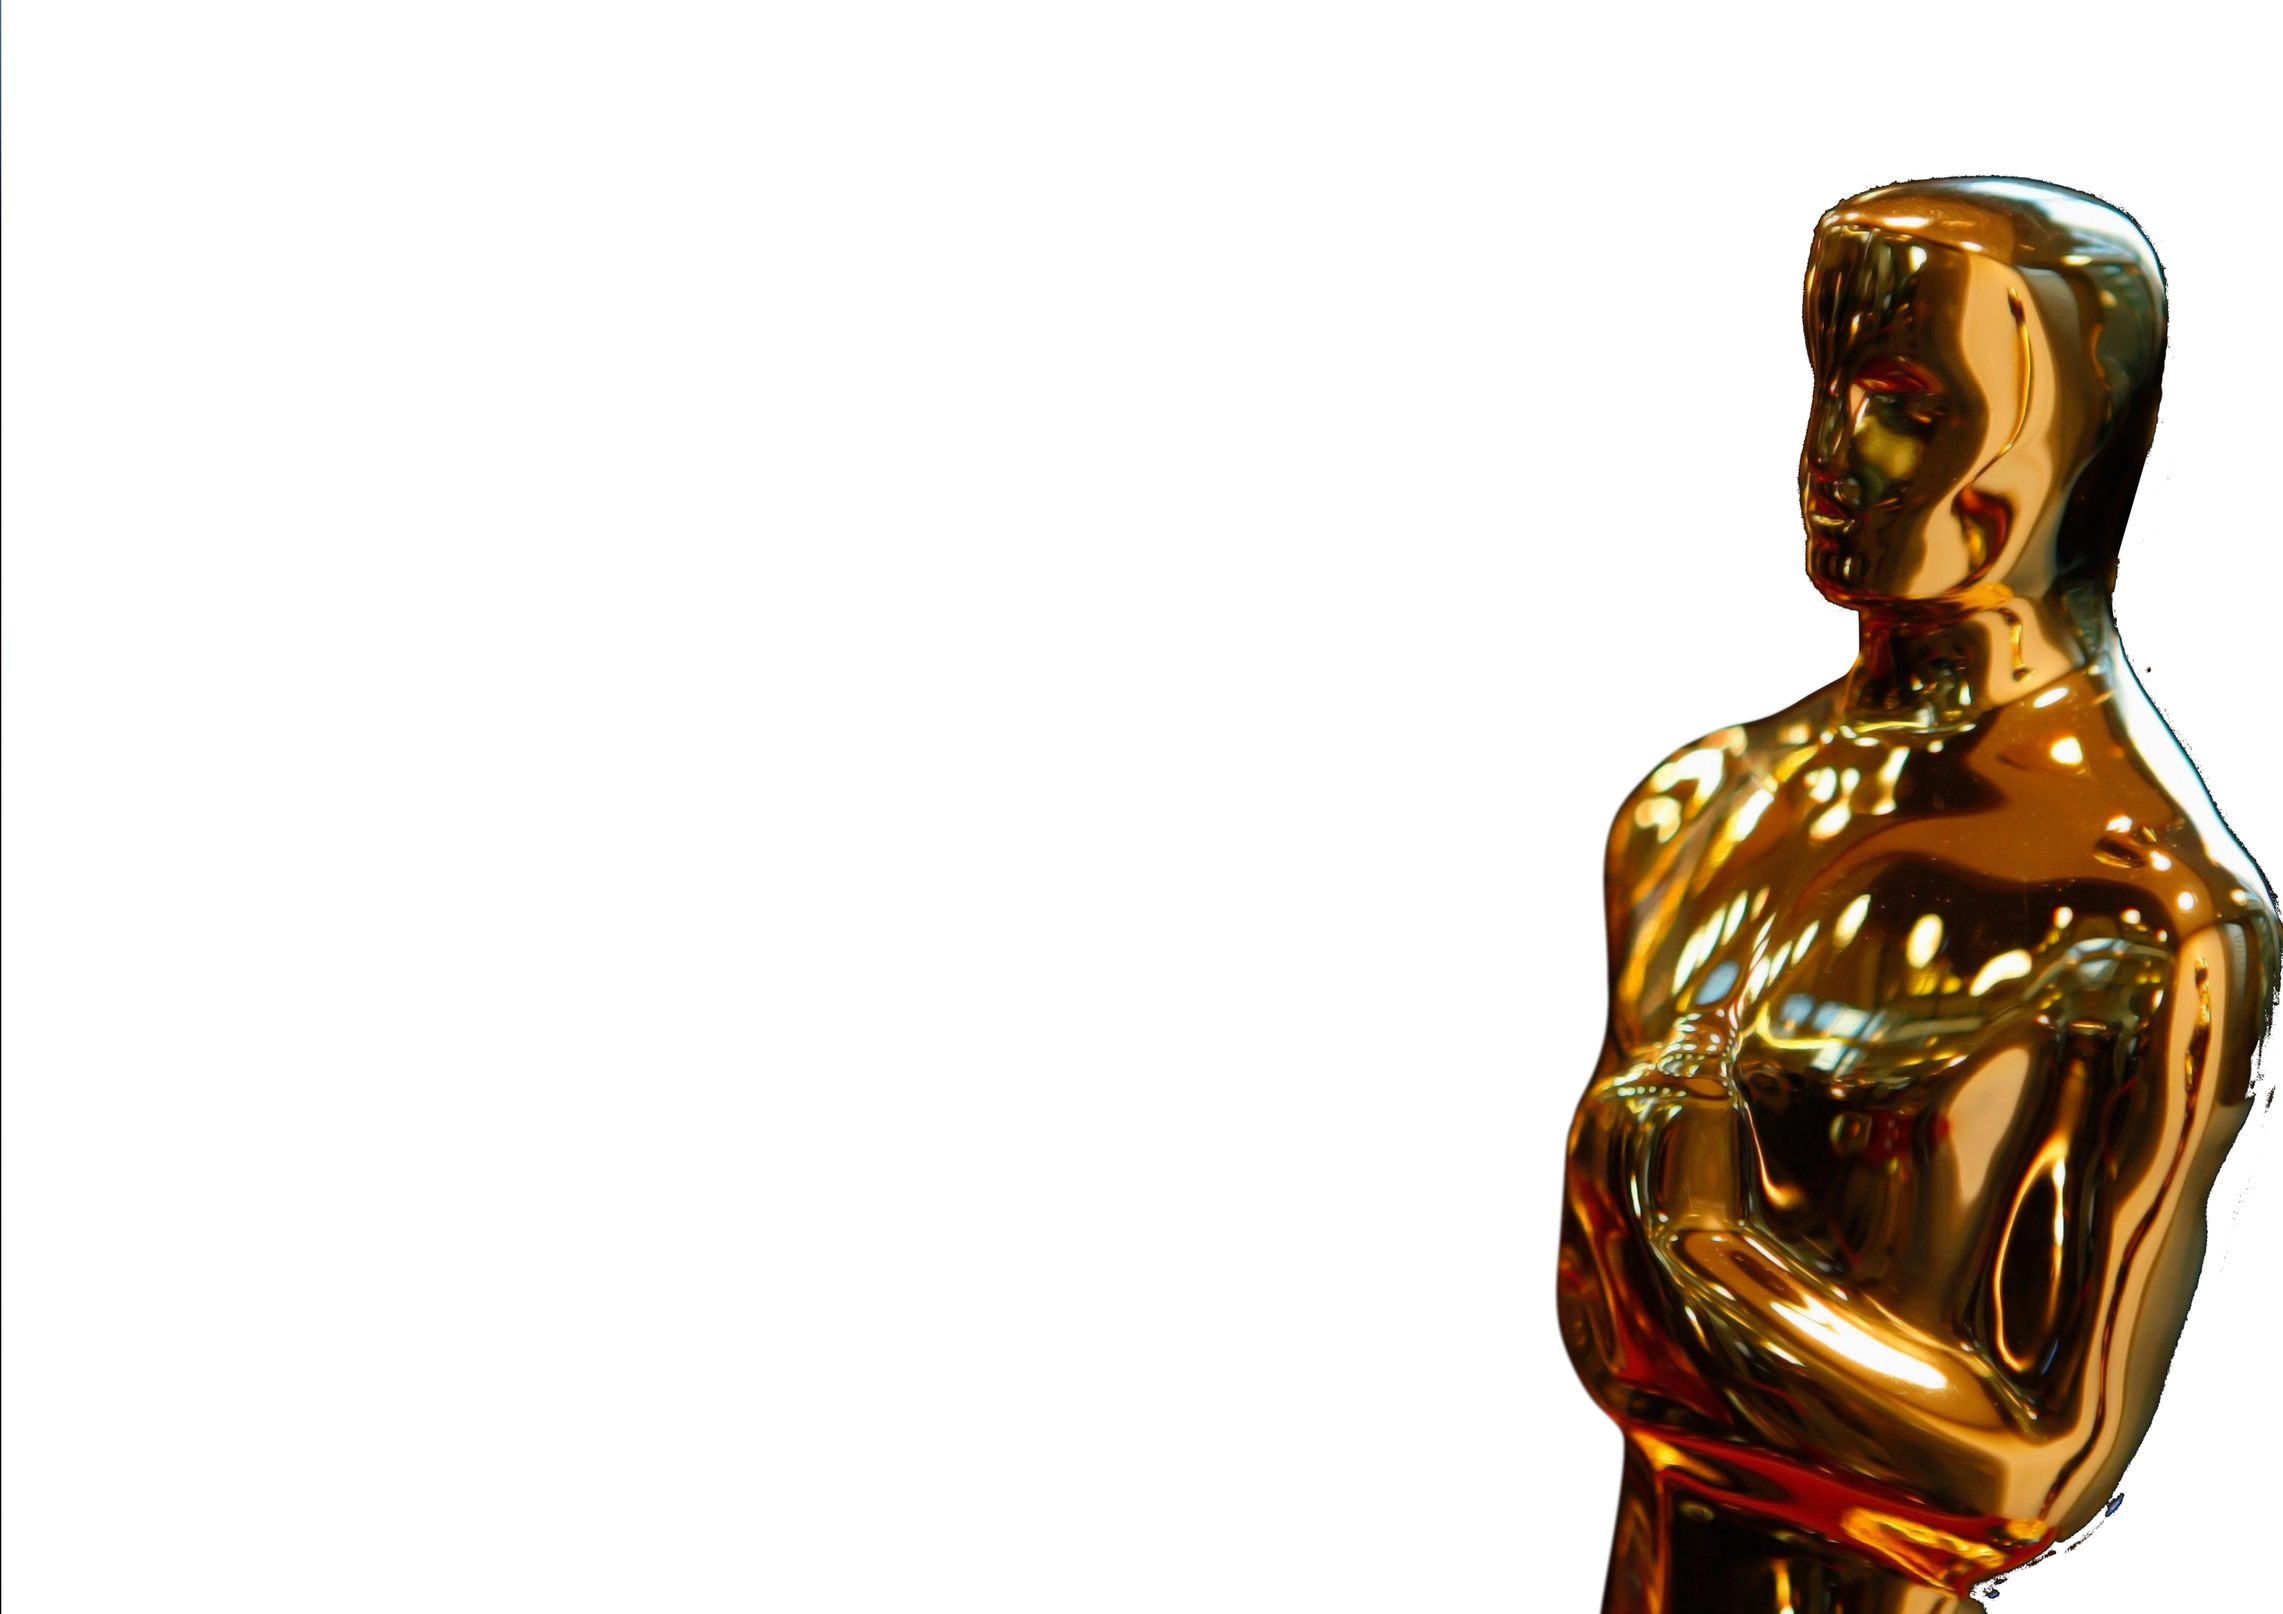
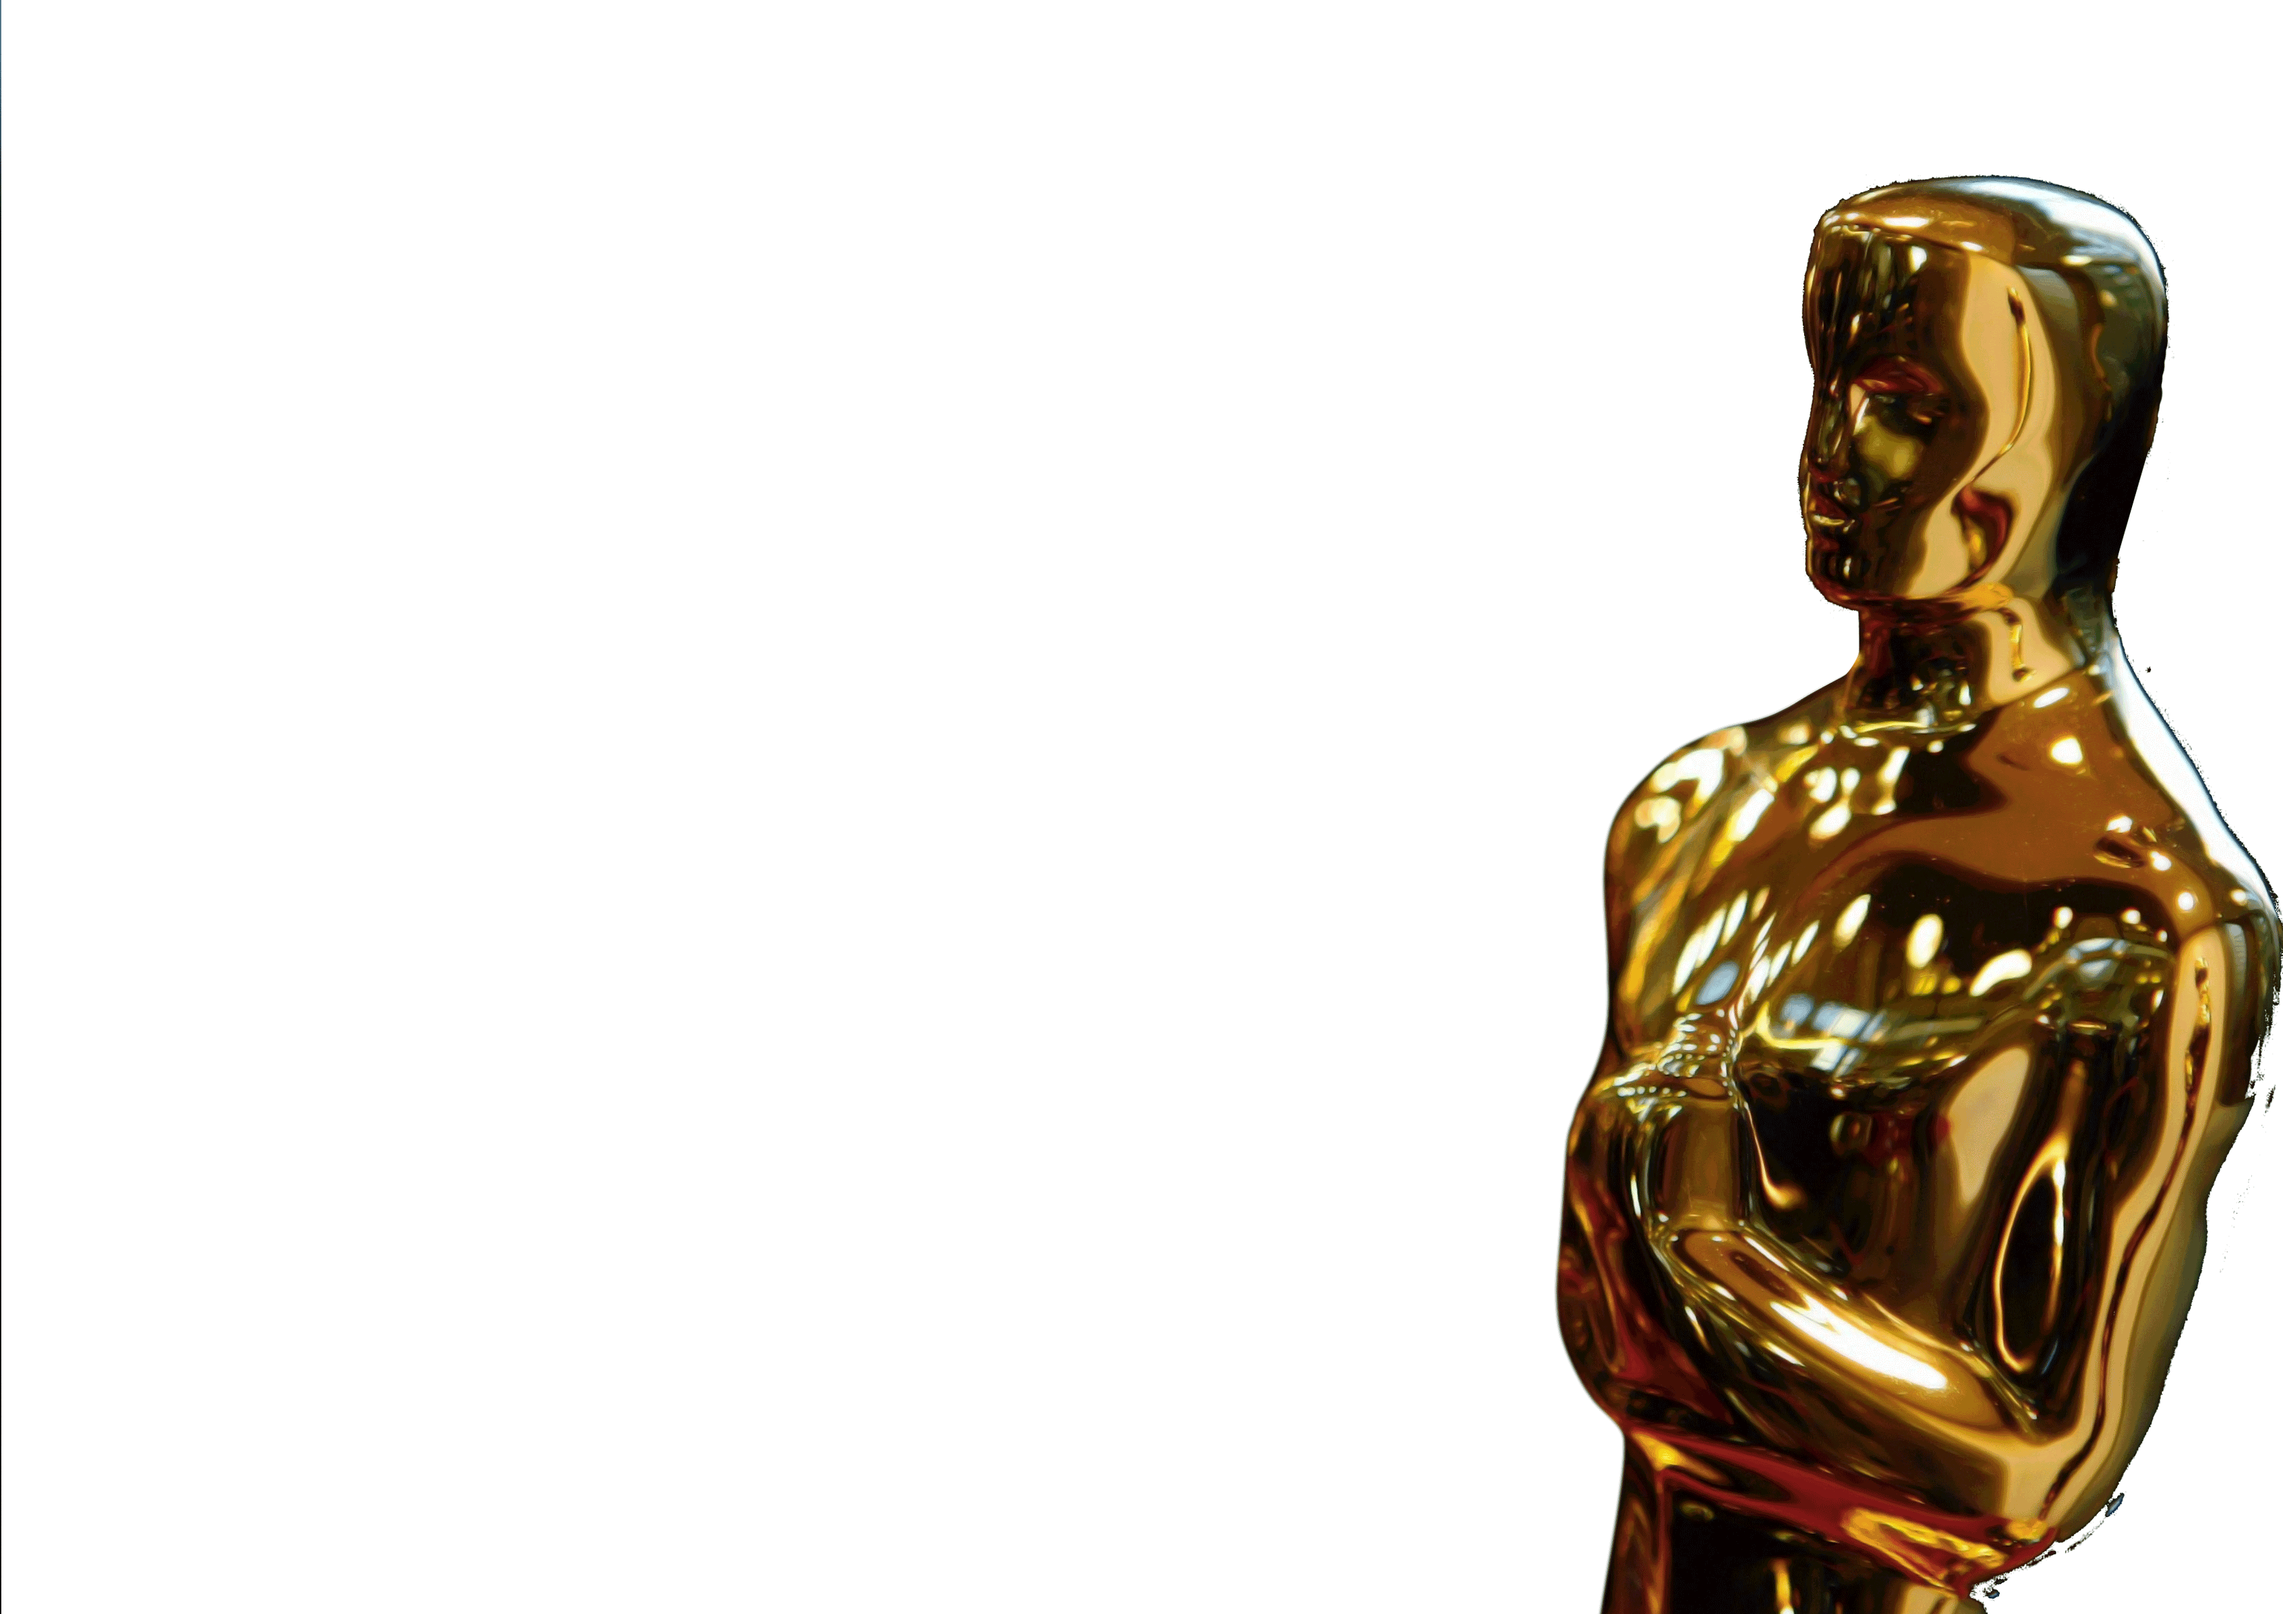
Optimisation of newcomer's letter.

diff --git a/resources/views/dashboard/newcomers/letter.blade.php b/resources/views/dashboard/newcomers/letter.blade.php
@@ -35,7 +35,7 @@
 				width: 29.7cm;
 				height: 21cm;
 
-				background-image: url("{{ @asset('/img/letter/bg.png') }}");
+				background-image: url("{{ @asset('/img/letter/bg.jpg') }}");
 				background-repeat: no-repeat;
 				background-size: 100% 100%;
 				position: relative;
